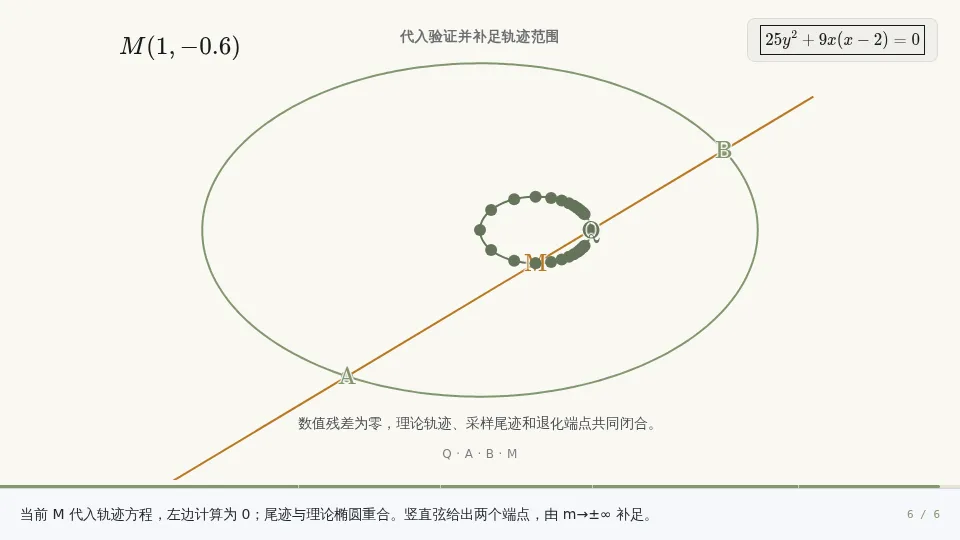
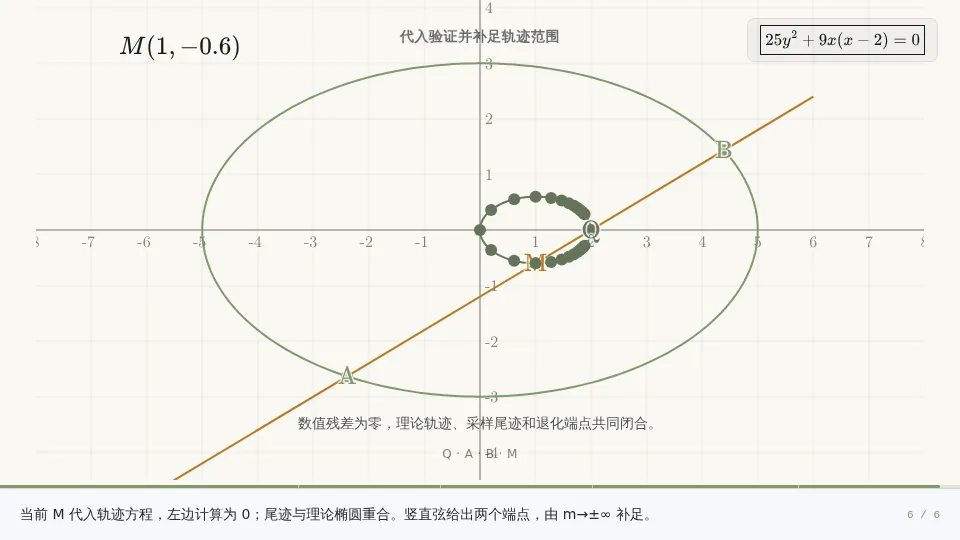
refactor(engine): one composer for math-scene plans; name the four progress semantics
The renderer's fallbackPlan hand-rolled the same plan the director
adapter builds — and drifted (the entrance-clock fix initially landed
only on the dead path, because with a null director the composition
still synthesizes directorFrame through the adapter). Both paths now go
through composeMathScenePlan: entrance clock for object draw-ins,
narration-paced progress for the camera glide. Verified byte-identical
frames before/after.

RendererProps now spells out the four coexisting progress semantics
(visual-slot, narration-step, fixed entrance clocks, director beats)
and warns that draw-ins never ride narration progress.

Also checks in the math_scene posters re-rendered for #269's visible
axes (nine conic cases, pole-polar, integral).

Closes #272

Claude-Session: https://claude.ai/code/session_014R2cHSbJLtKnh5NTABzwcC

diff --git a/apps/web/src/features/playbook/engine/renderers/types.ts b/apps/web/src/features/playbook/engine/renderers/types.ts
@@ -25,6 +25,28 @@ export type RendererInteractionEvent =
       value: string;
     };
 
+/*
+ * Four progress semantics coexist on this render path — know which one you
+ * are holding:
+ *
+ * 1. `progress` — VISUAL-SLOT progress, 0→1 across the slot the continuity
+ *    compiler assigned (may span several narration steps), spring-eased by
+ *    useStepProgress. Drives long glides: camera moves, slot-length sweeps.
+ * 2. `stepProgress` — NARRATION-STEP progress, 0→1 within the current step,
+ *    also spring-eased. Restarts every step; for labels/text meant to re-run.
+ * 3. Entrance clocks — draw-ins of newly added objects run on short FIXED
+ *    frame budgets derived from `frame - stepStartFrame` (math scenes:
+ *    MATH_SCENE_ENTRANCE_FRAMES via the director adapter; physics scenes:
+ *    their own trajectory/vector clocks). Narration length must never
+ *    stretch a draw-in.
+ * 4. Director beat progress — lives inside `directorFrame` (per-beat local
+ *    progress), only meaningful when a DirectorScript is present.
+ *
+ * Note: with a null director the composition STILL synthesizes
+ * `directorFrame` through the adapters, so math scenes always receive their
+ * plan from it — a renderer-local plan is only ever a standalone-mount
+ * fallback and must reuse the adapter's composer.
+ */
 export interface RendererProps {
   step: MetaStep;
   prevStep: MetaStep | null;
@@ -32,9 +54,8 @@ export interface RendererProps {
   stepStartFrame: number;
   stepEndFrame: number;
   /**
-   * Current step progress. Geometry renderers should usually use `progress`
-   * instead; this field is for labels/text that intentionally restart on
-   * every narration step.
+   * Narration-step progress (semantic 2 above): 0→1 within the current step,
+   * spring-eased, restarts every step. Geometry usually wants `progress`.
    */
   stepProgress?: number;
   /** Start frame of the visual slot whose geometry is currently being rendered. */
@@ -43,7 +64,11 @@ export interface RendererProps {
   visualKey?: string;
   /** True when this visual slot is continuing from the immediately previous step. */
   isVisualContinuation?: boolean;
-  /** Geometry progress. This may span multiple narration steps. */
+  /**
+   * Visual-slot progress (semantic 1 above): 0→1 across the whole slot,
+   * spring-eased, may span multiple narration steps. Never use it to pace a
+   * draw-in — that's what the fixed entrance clocks are for.
+   */
   progress: number;
   theme: "dark" | "light";
   /** Script domain, used by generic snapshots that need domain-specific fallback UI. */

diff --git a/apps/web/src/features/playbook/engine/director/adapters/mathSceneAdapter.ts b/apps/web/src/features/playbook/engine/director/adapters/mathSceneAdapter.ts
@@ -1,23 +1,44 @@
 import { planCameraViewBox } from "../../math-scene-plan/cameraPlanner";
-import { buildMathSceneRenderPlan } from "../../math-scene-plan/plan";
-import type { MathSceneSnapshot } from "../../types";
+import { buildMathSceneRenderPlan, type MathSceneRenderPlan } from "../../math-scene-plan/plan";
+import type { MathSceneSnapshot, MetaStep } from "../../types";
 import type { DirectorAdapter } from "./types";
+
+/**
+ * The one way a math-scene render plan is assembled: object draw-ins ride the
+ * fixed entrance clock, the auto camera glides on the narration-paced
+ * progress. Both the director frame plan and any standalone renderer fallback
+ * must go through here so the two paths cannot drift apart again.
+ */
+export function composeMathScenePlan(args: {
+  prevStep: MetaStep | null;
+  snapshot: MathSceneSnapshot;
+  entranceProgress: number;
+  cameraProgress: number;
+}): MathSceneRenderPlan {
+  const basePlan = buildMathSceneRenderPlan({
+    previousStep: args.prevStep,
+    currentSnapshot: args.snapshot,
+    stepProgress: args.entranceProgress,
+  });
+  return {
+    ...basePlan,
+    camera: planCameraViewBox({
+      plan: basePlan,
+      fallback: basePlan.camera,
+      progress: args.cameraProgress,
+    }),
+  };
+}
 
 export const MathSceneDirectorAdapter: DirectorAdapter = {
   supports: (step) => step.snapshot.kind === "math_scene",
   build: ({ beat, step, prevStep, stepProgress, entranceProgress }) => {
     const snap = step.snapshot as MathSceneSnapshot;
-    const basePlan = buildMathSceneRenderPlan({
-      previousStep: prevStep,
-      currentSnapshot: snap,
-      // Object draw-ins ride the fixed entrance clock; the camera below keeps
-      // the narration-paced glide.
-      stepProgress: entranceProgress ?? stepProgress,
-    });
-    const camera = planCameraViewBox({
-      plan: basePlan,
-      fallback: basePlan.camera,
-      progress: stepProgress,
+    const plan = composeMathScenePlan({
+      prevStep,
+      snapshot: snap,
+      entranceProgress: entranceProgress ?? stepProgress,
+      cameraProgress: stepProgress,
     });
 
     return {
@@ -27,10 +48,7 @@ export const MathSceneDirectorAdapter: DirectorAdapter = {
         : "math_scene:added_objects",
       stageTransform: undefined,
       mathScene: {
-        renderPlan: {
-          ...basePlan,
-          camera,
-        },
+        renderPlan: plan,
         reason: "math_scene viewBox camera",
       },
     };

diff --git a/apps/web/src/features/playbook/engine/renderers/MathSceneRenderer.tsx b/apps/web/src/features/playbook/engine/renderers/MathSceneRenderer.tsx
@@ -14,11 +14,10 @@ import type { RendererProps } from "./types";
 import { compileExpr, type CompiledExpr } from "../../../../shared/lib/mathExpr";
 import { sanitizeKatex } from "../../../../shared/lib/sanitizeKatex";
 import { clamp01 } from "../foundation";
-import { planCameraViewBox } from "../math-scene-plan/cameraPlanner";
+import { composeMathScenePlan } from "../director/adapters/mathSceneAdapter";
 import { MATH_SCENE_ENTRANCE_FRAMES } from "../math-scene-plan/progress";
 import { viewBoxFromSnapshot } from "../math-scene-plan/camera";
 import {
-  buildMathSceneRenderPlan,
   type MathSceneRenderPlan,
   type PlannedObject,
 } from "../math-scene-plan/plan";
@@ -388,28 +387,21 @@ export const MathSceneRenderer: React.FC<RendererProps> = ({
 }) => {
   const snap = step.snapshot as MathSceneSnapshot;
   const isOverlayMode = renderMode === "stage-overlay";
-  // Newly added objects draw on a short fixed clock: a 30-second narration
-  // must not stretch an axis or a rectangle's entrance across 30 seconds.
-  // Camera moves keep the narration-paced glide via the raw progress below.
+  // Inside the composition the plan always arrives via directorFrame — the
+  // null-director path still synthesizes one through the math-scene adapter,
+  // so this fallback only serves standalone mounts (unit tests, isolated
+  // previews). It goes through the same composeMathScenePlan as the adapter
+  // so the two paths cannot drift apart.
   const entranceProgress = clamp01(
     Math.max(0, frame - stepStartFrame) / MATH_SCENE_ENTRANCE_FRAMES,
   );
   const fallbackPlan = React.useMemo(
-    () => {
-      const basePlan = buildMathSceneRenderPlan({
-        previousStep: prevStep,
-        currentSnapshot: snap,
-        stepProgress: entranceProgress,
-      });
-      return {
-        ...basePlan,
-        camera: planCameraViewBox({
-          plan: basePlan,
-          fallback: basePlan.camera,
-          progress,
-        }),
-      };
-    },
+    () => composeMathScenePlan({
+      prevStep,
+      snapshot: snap,
+      entranceProgress,
+      cameraProgress: progress,
+    }),
     [prevStep, snap, entranceProgress, progress],
   );
   const directedPlan = directorFrame?.mathScene?.renderPlan ?? fallbackPlan;
